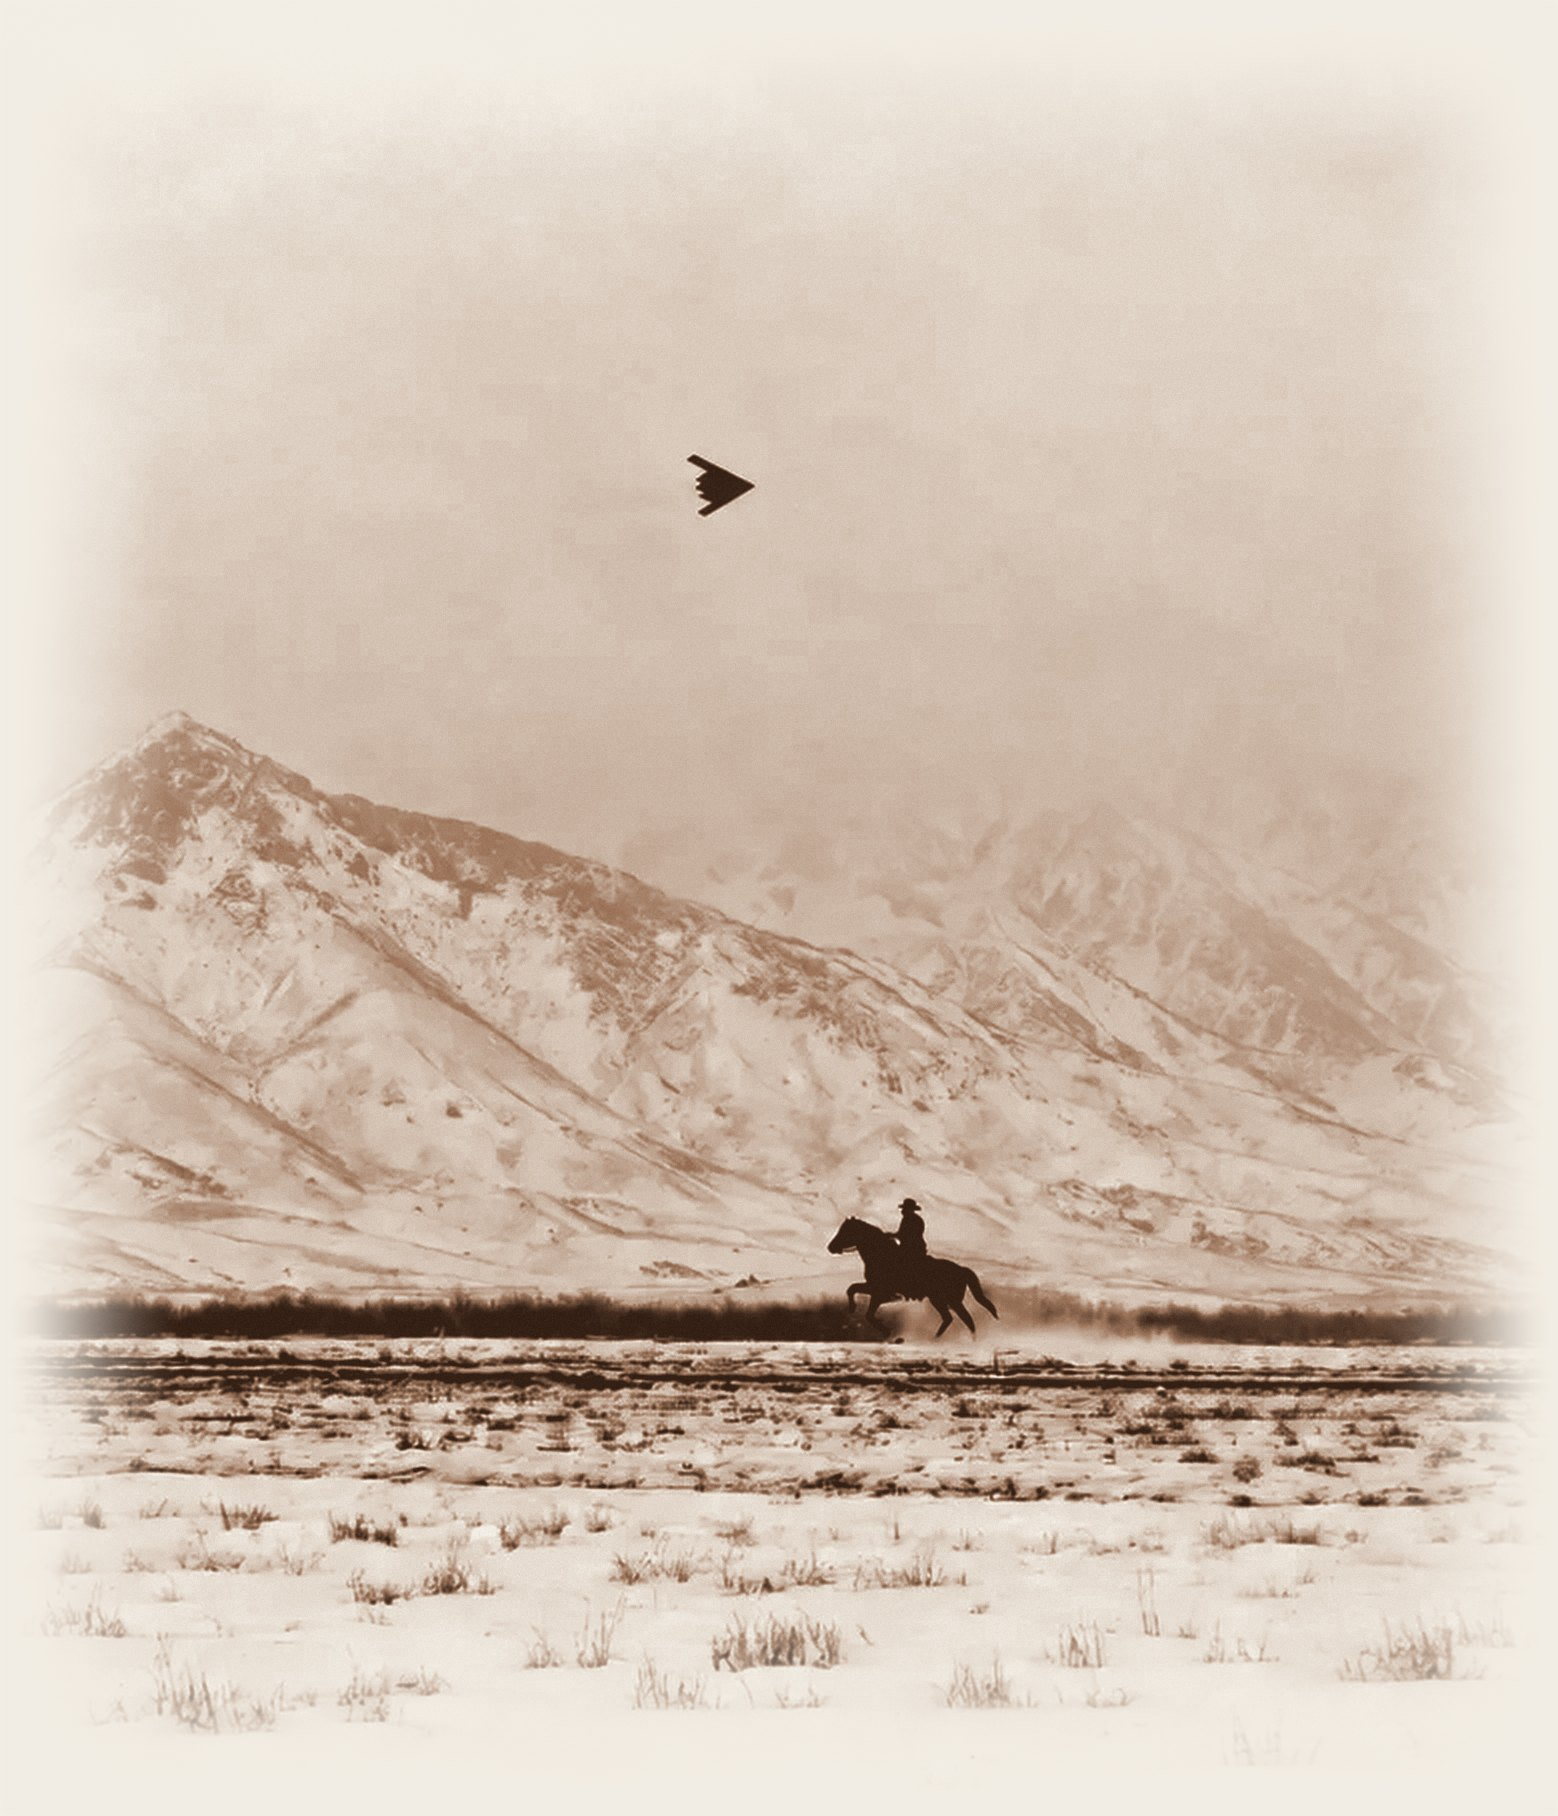
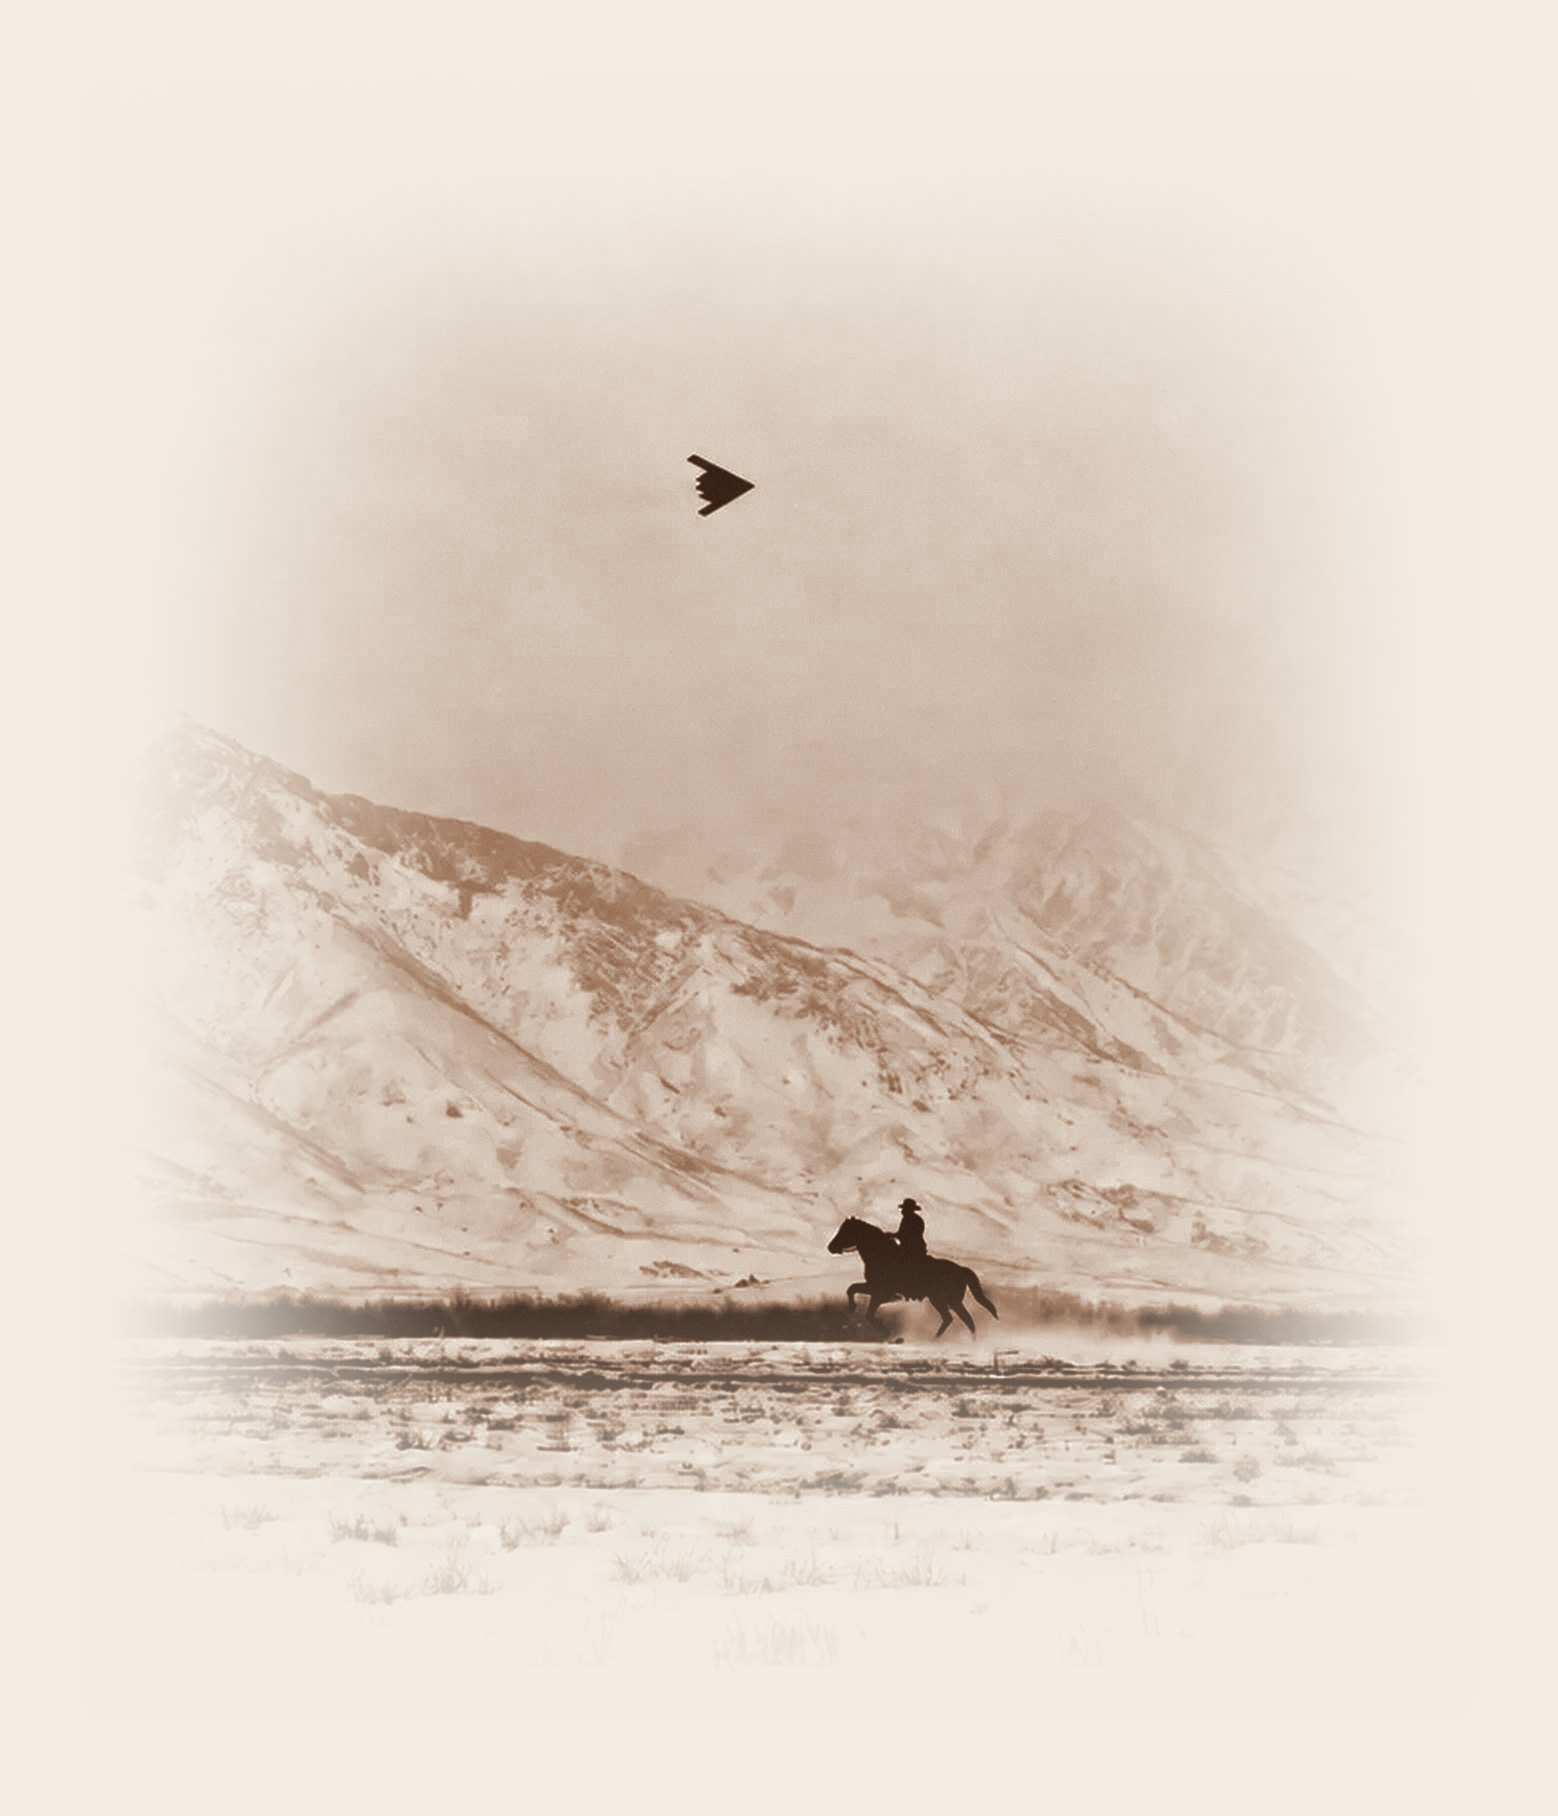
Longer inset fade on rider photo; even vertical rhythm on About; curly apostrophes

diff --git a/assets/css/site.css b/assets/css/site.css
@@ -83,9 +83,11 @@ h1 { font: 400 clamp(38px, 5vw, 76px)/1.03 var(--serif); letter-spacing: -.015em
 .rider { display: block; width: 100%; height: auto; max-height: 76vh; object-fit: contain; }
 .js .about-plate .rider { transform: scale(1.04); transition: transform 3.2s var(--ease); }
 .ready .about-plate .rider { transform: none; }
-.essay h1 { margin: 22px 0 56px; font-size: clamp(48px, 6vw, 88px); }
-.essay p { margin: 0 0 1.3em; max-width: 34em; }
-.essay .verse { font-size: clamp(24px, 2.3vw, 32px); line-height: 1.3; text-align: left; margin: 1.8em 0; }
+.essay { --s: 26px; }
+.essay h1 { margin: 20px 0 calc(var(--s) * 1.7); font-size: clamp(48px, 6vw, 88px); line-height: 1; }
+.essay p { margin: 0 0 var(--s); max-width: 31em; line-height: 1.6; }
+.essay .verse { font-size: clamp(24px, 2.3vw, 32px); line-height: 1.22; text-align: left; margin: calc(var(--s) * 1.5) 0; }
+.essay .verse + .verse { margin-top: calc(var(--s) * -0.3); }
 .essay .verse span + span { font-style: normal; color: inherit; }
 .essay .verse.pair span:last-child { font-style: italic; color: var(--rust); }
 .sign { display: flex; justify-content: space-between; align-items: center; gap: 20px; padding-top: 1.4em; margin-top: 2.6em !important; border-top: 1px solid var(--rule); font: 400 12px var(--mono); letter-spacing: .1em; text-transform: uppercase; color: var(--mute); }

diff --git a/about.html b/about.html
@@ -34,8 +34,8 @@
       <p class="verse in" style="--d:700ms"><span>We built machines that fly,</span><span>think,</span><span>and leave the planet.</span></p>
       <p class="verse pair in" style="--d:800ms"><span>The internet taught machines to talk.</span><span>Nothing has taught them to work.</span></p>
       <p class="reveal">Language models learned from billions of written words. A robot that lays brick or assembles a motor needs a different kind of record: the work itself, filmed from where the worker stands.</p>
-      <p class="reveal">That's what Farasa builds. We film real shifts on construction sites and factory floors, log the machines on the same job, and label every frame.</p>
-      <p class="reveal">We've spent five thousand years building machines to carry us. Now we're teaching them to work alongside us.</p>
+      <p class="reveal">That’s what Farasa builds. We film real shifts on construction sites and factory floors, log the machines on the same job, and label every frame.</p>
+      <p class="reveal">We’ve spent five thousand years building machines to carry us. Now we’re teaching them to work alongside us.</p>
       <p class="reveal sign"><span>Farasa &nbsp;·&nbsp; 2026</span><button type="button" class="arrow" data-order>Request data <span aria-hidden="true">→</span></button></p>
     </article>
   </main>

diff --git a/index.html b/index.html
@@ -46,7 +46,7 @@
     <section class="folio wide" aria-labelledby="iii">
       <div class="folio-text reveal">
         <p class="num" id="iii">III</p>
-        <p class="aph">A robot can't stand beside anyone. It learns from recordings. So we record the work from where the worker stands: what they see, what their hands do, and what the machines beside them are doing. Then we label every frame.</p>
+        <p class="aph">A robot can’t stand beside anyone. It learns from recordings. So we record the work from where the worker stands: what they see, what their hands do, and what the machines beside them are doing. Then we label every frame.</p>
       </div>
       <figure class="reveal cam">
         <div class="cam-frame">
